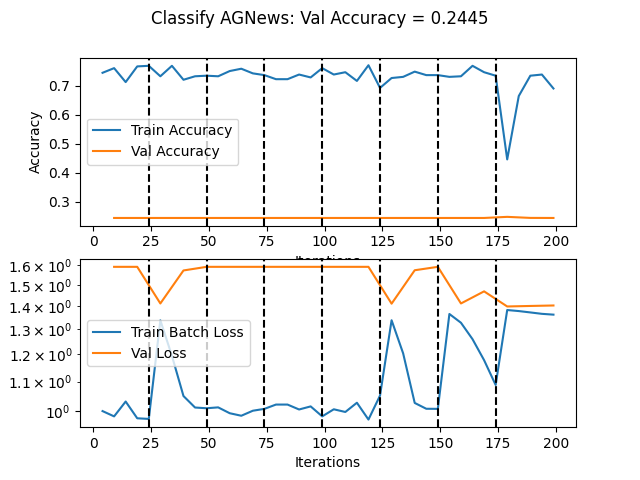
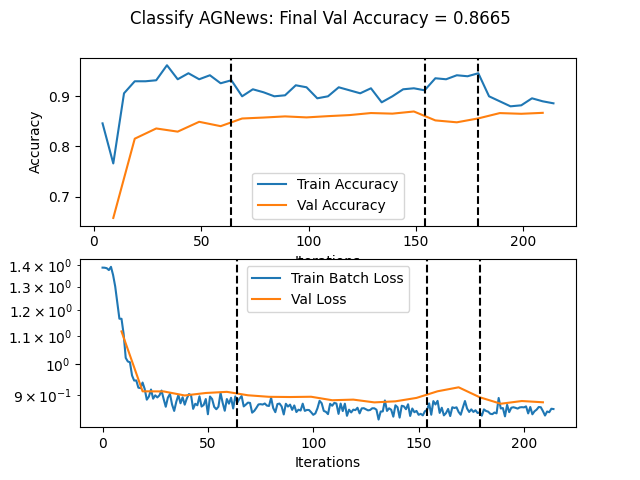
works

diff --git a/Hw_5/runners/classify_agnews.py b/Hw_5/runners/classify_agnews.py
@@ -140,6 +140,36 @@ def val_check(
     )
 
 
+def test_accuracy(classifier, test_images, test_labels):
+    test_accuracy = 0
+    test_images = tf.convert_to_tensor(test_images)
+    for i in range(0, test_images.shape[0], test_images.shape[0] // 100):
+        batch_indices = tf.range(i, i + test_images.shape[0] // 100)
+        test_batch_images = tf.gather(test_images, batch_indices)
+        test_batch_labels = tf.gather(test_labels, batch_indices)
+        if i == 0:
+            test_accuracy = tf.reduce_mean(
+                tf.cast(
+                    tf.equal(
+                        classifier(test_batch_images).numpy().argmax(axis=1),
+                        test_batch_labels.numpy().reshape(-1),
+                    ),
+                    tf.float32,
+                )
+            ) / 100
+        else:
+            test_accuracy += tf.reduce_mean(
+                tf.cast(
+                    tf.equal(
+                        classifier(test_batch_images).numpy().argmax(axis=1),
+                        test_batch_labels.numpy().reshape(-1),
+                    ),
+                    tf.float32,
+                )
+            ) / 100
+    return test_accuracy.numpy()
+
+
 def train(config_path: Path, use_last_checkpoint: bool):
     if config_path is None:
         config_path = Path("configs/classify_agnews_config.yaml")
@@ -385,7 +415,7 @@ def train(config_path: Path, use_last_checkpoint: bool):
     # if the file already exists add a number to the end of the file name
     # to avoid overwriting
     file_index = 0
-    while Path(f"artifacts/agnews/classify_agnews_{file_index}.png").exists():
+    while Path(f"artifacts/agnews/classify_agnews_img_{file_index}.png").exists():
         file_index += 1
     fig.savefig(f"artifacts/agnews/classify_agnews_img_{file_index}.png")
 
@@ -394,26 +424,45 @@ def train(config_path: Path, use_last_checkpoint: bool):
     config_path.write_text(yaml.dump(config))
 
     # save the model
-    tf.raw_ops.Save(
-        filename="artifacts/agnews/classify_agnews_model",
-        tensor_names=["EmbedClassifier/embedding"],
-        data=[embed_classifier.embedding],
-    )
+    checkpoint_manager.directory = "artifacts/agnews/model"
+    checkpoint_manager.save()
+    config_path = Path(f"artifacts/agnews/model.yaml")
+    config_path.write_text(yaml.dump(config))
+
 
 def test(model_path: Path):
     if model_path is None:
-        model_path = Path("artifacts/agnews/classify_agnews_model")
+        model_path = Path("artifacts/agnews/model")
 
     if (not model_path.exists()):
         print("Model does not exist, run the train script first")
         return
 
-    model = tf.raw_ops.Restore(
-        file_pattern=model_path,
-        tensor_names=["EmbedClassifier/embedding"],
-        shape_and_slices=[tf.constant([100, 50])],
-        dtypes=[tf.float32],
+    config_path = Path("artifacts/agnews/model/model.yaml")
+
+    config = yaml.safe_load(config_path.read_text())
+    dropout_prob = config["learning"]["dropout_prob"]
+    num_embeddings = config["learning"]["num_embeddings"]
+    embedding_depth = config["learning"]["embedding_depth"]
+
+    num_hidden_layers = config["mlp"]["num_hidden_layers"]
+    hidden_layer_width = config["mlp"]["hidden_layer_width"]
+
+    num_word_to_tokenize = config["data"]["num_words_to_tokenize"]
+
+    num_classes = 4
+    embed_classifier = EmbedClassifier(
+        num_embeddings,
+        embedding_depth,
+        num_word_to_tokenize,
+        dropout_prob,
+        num_hidden_layers,
+        hidden_layer_width,
+        num_classes,
     )
+
+    checkpoint = tf.train.Checkpoint(embed_classifier)
+    checkpoint.restore(tf.train.latest_checkpoint(model_path))
 
     dataset = load_dataset("ag_news")
     test_labels = dataset["test"]["label"]
@@ -422,24 +471,10 @@ def test(model_path: Path):
     test_text = tf.convert_to_tensor(test_text)
     test_labels = tf.convert_to_tensor(test_labels)
 
-    test_accuracy = 0
+    test_accuracy_value = test_accuracy(embed_classifier, test_text, test_labels)
 
-    for i in range(0, test_text.shape[0], test_text.shape[0] // 100):
-        batch_indices = tf.range(i, i + test_text.shape[0] // 100)
-        test_batch_text = tf.gather(test_text, batch_indices)
-        test_batch_labels = tf.gather(test_labels, batch_indices)
-        test_accuracy += tf.reduce_mean(
-            tf.cast(
-                tf.equal(
-                    model(test_batch_text).numpy().argmax(axis=1),
-                    test_batch_labels.numpy().reshape(-1),
-                ),
-                tf.float32,
-            )
-        ) / (test_text.shape[0] // 100)
-
-    print(f"Test Accuracy => {test_accuracy:0.4f}")
+    print(f"Test Accuracy => {test_accuracy_value:0.4f}")
 
     file = open("artifacts/agnews/classify_agnews_test_accuracy.txt", "w")
-    file.write(f"{test_accuracy:0.4f}")
+    file.write(f"{test_accuracy_value:0.4f}")
     file.close()

diff --git a/Hw_5/tests/modules/embed_classifier_test.py b/Hw_5/tests/modules/embed_classifier_test.py
@@ -1,9 +1,10 @@
 import pytest
 import tensorflow as tf
-from modules.embed_classifier import EmbedClassifier
 
 
 def test_EmbedClassifier_init():
+    from modules.embed_classifier import EmbedClassifier
+
     embed_classifier = EmbedClassifier(100, 50, 20, 0.5, 3, 30, 10)
 
     assert embed_classifier.num_embedding == 100
@@ -16,27 +17,34 @@ def test_EmbedClassifier_init():
 @pytest.mark.parametrize(
     "text",
     [
-        tf.constant(["this is a test", "another test"]),
-        tf.constant(["single test"]),
+        tf.constant(["professor curro likes", "reading about", "apples"]),
+        tf.constant(["apples are a good fruit"]),
     ],
 )
-def test_EmbedClassifier_call(text):
-    embed_classifier = EmbedClassifier(100, 50, 20, 0.5, 3, 30, 10)
+@pytest.mark.parametrize("num_embedding", [100, 200, 300])
+@pytest.mark.parametrize("embedding_depth", [50, 100, 150])
+@pytest.mark.parametrize("num_word_to_tokenize", [10, 20, 30])
+@pytest.mark.parametrize("num_classes", [10, 20, 30])
+def test_EmbedClassifier_call(
+    text, num_embedding, embedding_depth, num_word_to_tokenize, num_classes
+):
+    from modules.embed_classifier import EmbedClassifier
+
+    num_classes = 10
+    embed_classifier = EmbedClassifier(
+        num_embedding,
+        embedding_depth,
+        num_word_to_tokenize,
+        dropout_prob=0.5,
+        num_hidden_layers=3,
+        hidden_layer_width=30,
+        num_classes=num_classes,
+    )
+
     embeddings = embed_classifier(text)
 
     assert embeddings.shape[0] == len(text)
-    assert (
-        embeddings.shape[1]
-        == embed_classifier.num_word_to_tokenize * embed_classifier.embedding_depth
-    )
-
-
-def test_EmbedClassifier_parameters_trainability():
-    embed_classifier = EmbedClassifier(100, 50, 20, 0.5, 3, 30, 10)
-
-    assert embed_classifier.embedding.trainable == True
-    for layer in embed_classifier.mlp.layers:
-        assert layer.trainable == True
+    assert embeddings.shape[1] == num_classes
 
 
 if __name__ == "__main__":

diff --git a/Hw_5/modules/embed_classifier.py b/Hw_5/modules/embed_classifier.py
@@ -56,7 +56,17 @@ class EmbedClassifier(tf.Module):
         tokens = tf.strings.split(text, sep=" ")
 
         tokens = tokens[:, : self.num_word_to_tokenize]
+
         tokens = tokens.to_tensor(default_value="")
+
+        if tokens.shape[1] < self.num_word_to_tokenize:
+            tokens = tf.pad(
+                tokens,
+                [
+                    [0, 0],
+                    [0, self.num_word_to_tokenize - tokens.shape[1]],
+                ],
+            )
 
         hashed_tokens = tf.strings.to_hash_bucket_fast(tokens, self.num_embedding)
 

diff --git a/Hw_5/test.py b/Hw_5/test.py
@@ -12,7 +12,7 @@ def main():
     parser.add_argument("runner", type=Path,
                         help="Path to the runner file")
     parser.add_argument("--model", "-m", type=Path,
-                        nargs='?', help="Path to the model file")
+                        nargs='?', help="Path to the model directory")
 
     argcomplete.autocomplete(parser)
     args = parser.parse_args()

diff --git a/Hw_5/README.md b/Hw_5/README.md
@@ -9,5 +9,7 @@
 - View the results in ``` ./artifacts ```.
 
 ## This is my best attempt at agNews
-![Alt text](artifacts/agnews/classify_agnews_img_1.png)
+![Alt text](artifacts/agnews/classify_agnews_img_0.png)
+
+## My accuracy was 86.76% on the test set
 
